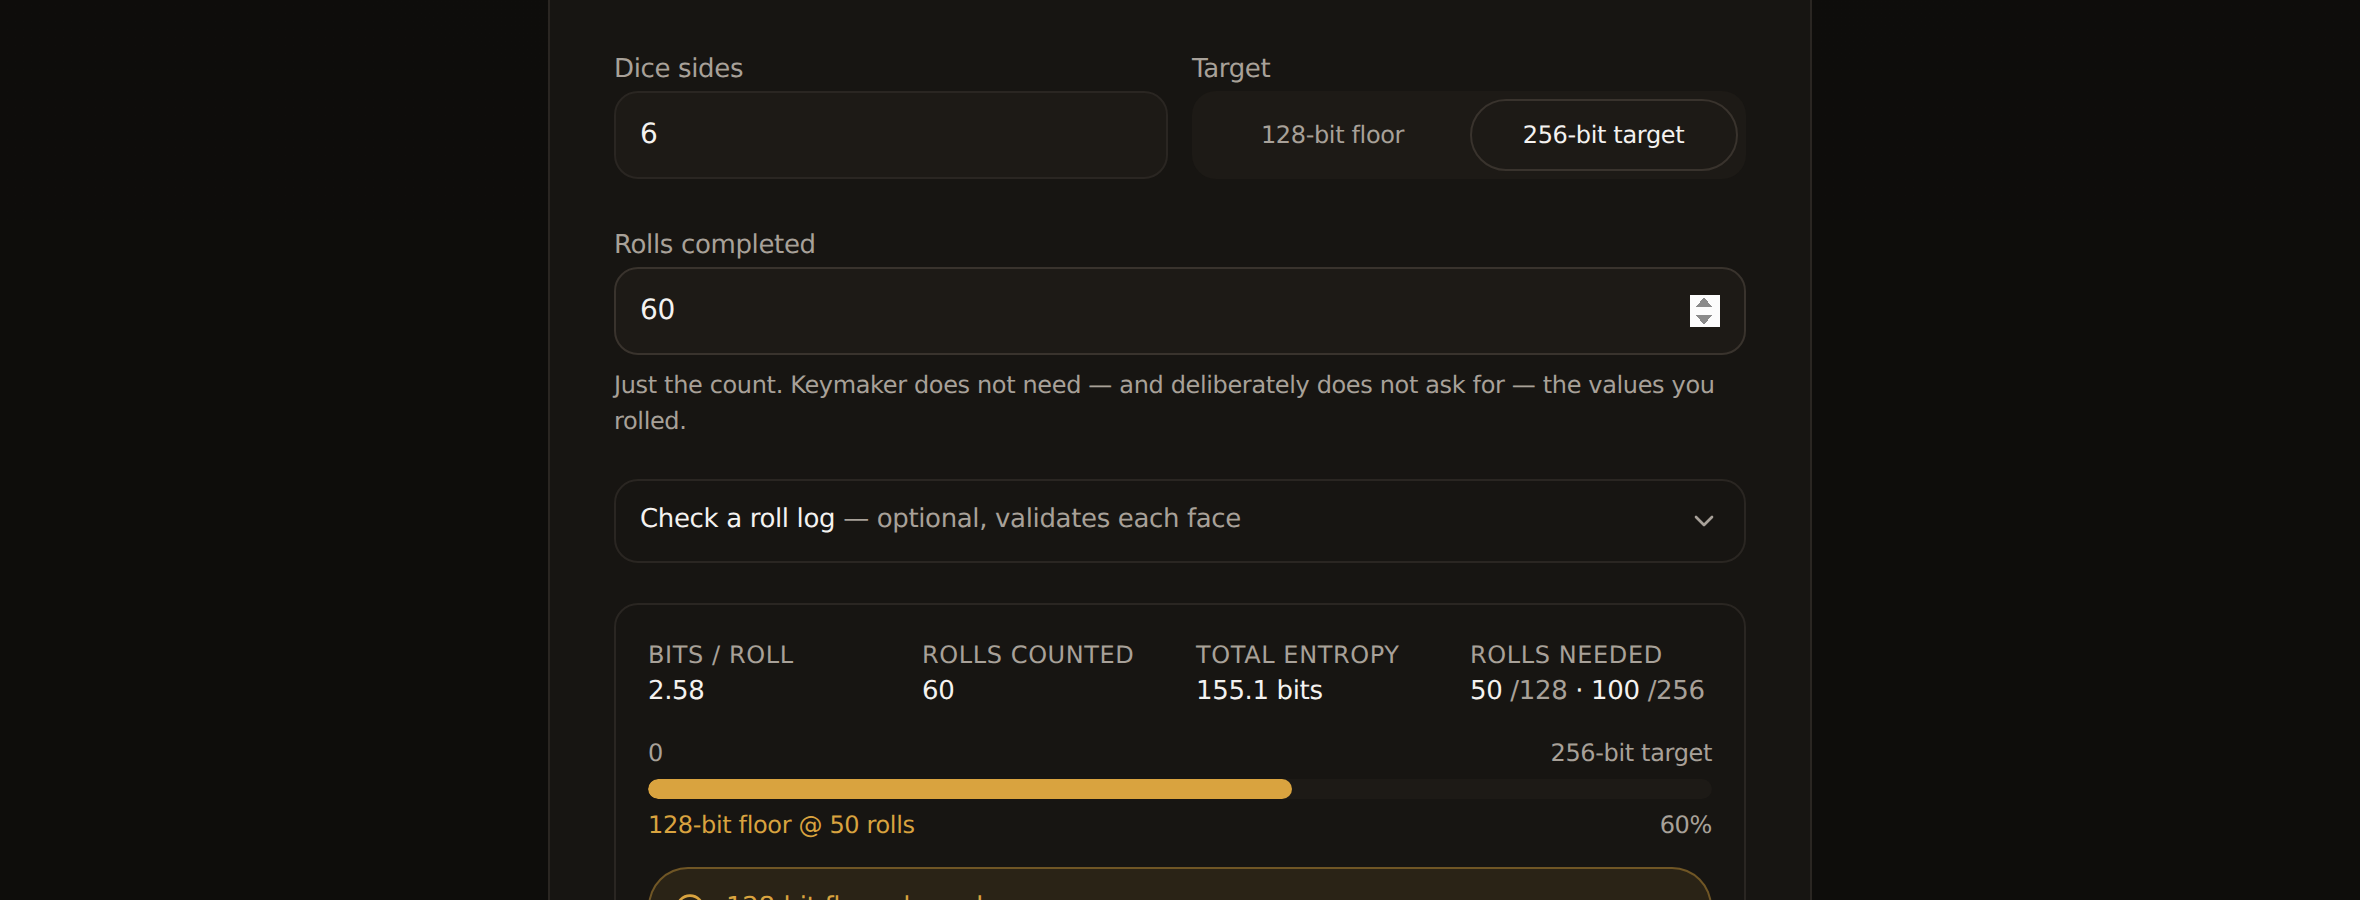
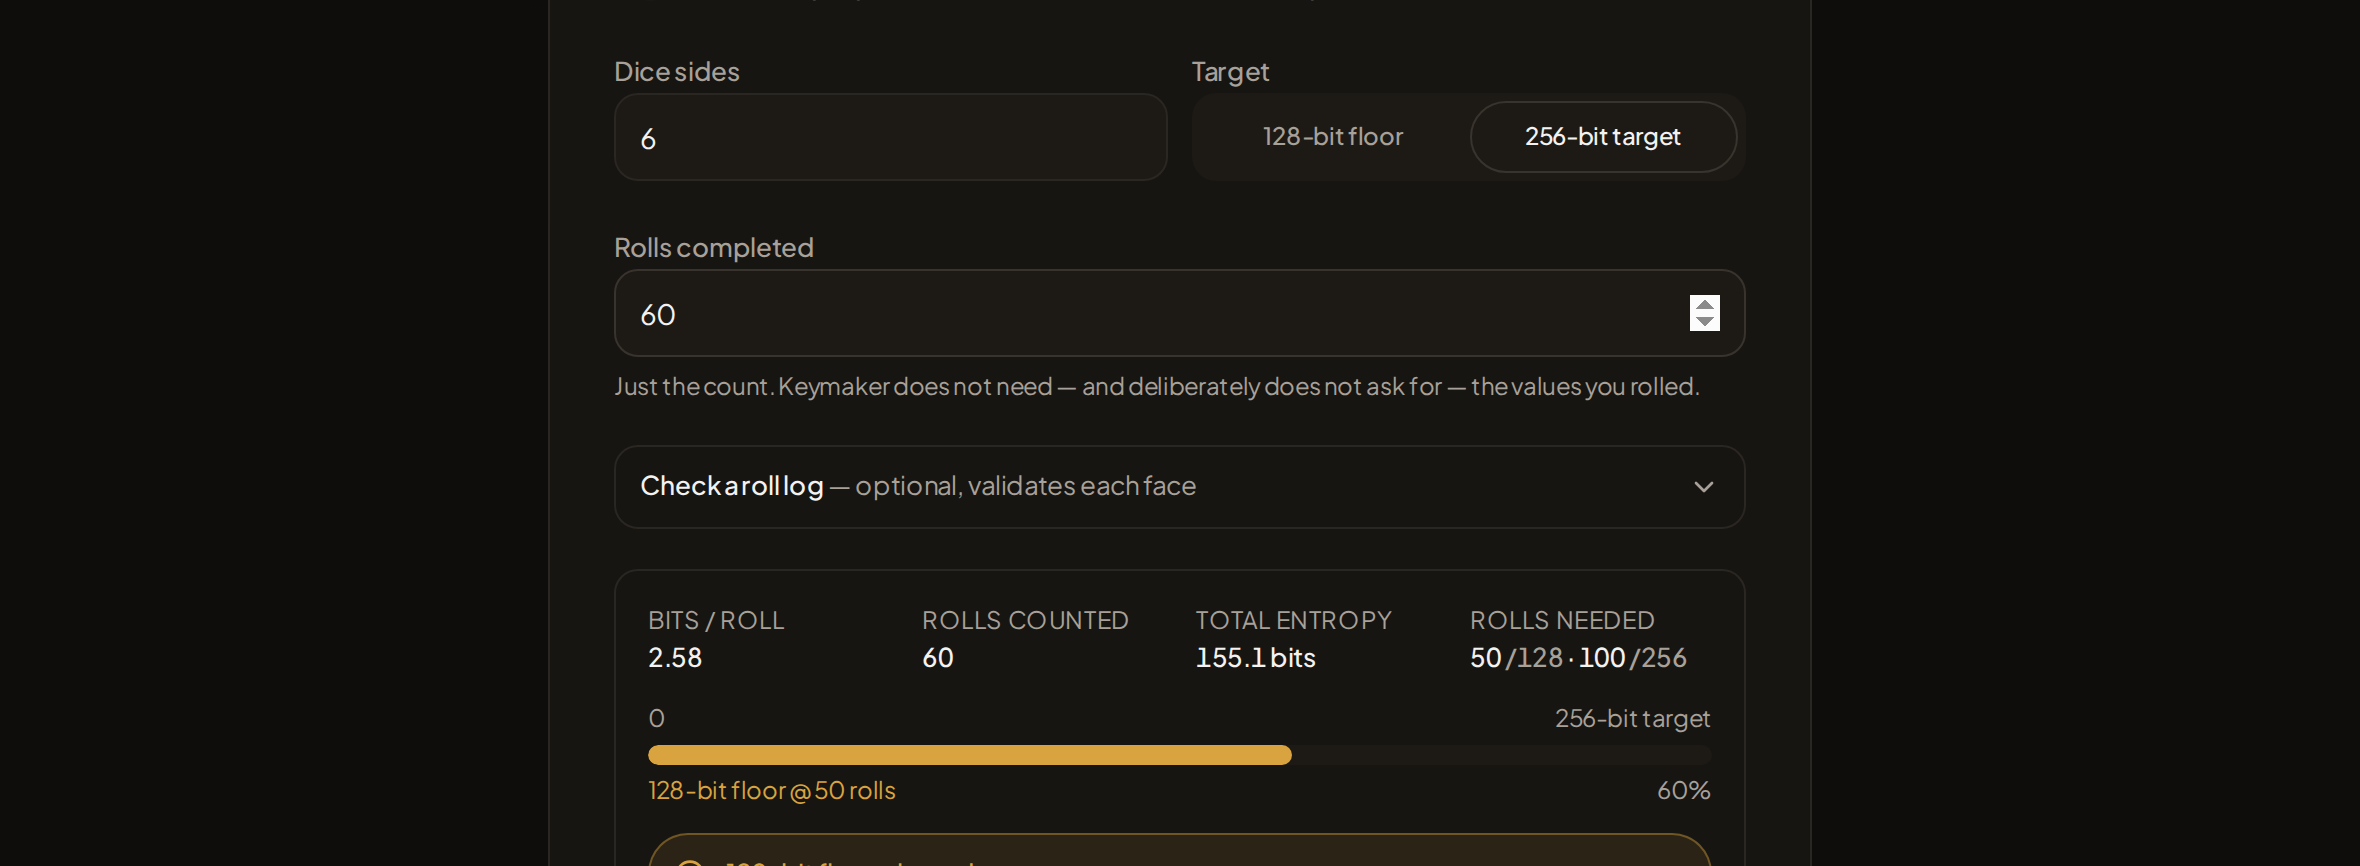
Draw the display face, instead of naming one we may not ship
Satoshi headed both text stacks and was never once rendered. The ITF Free
Font License §02 forbids distributing the binary through a "repository" or
"publicly accessible servers" and requires third parties to fetch their own
copy from Fontshare, so it could never live in this public repo — and with
no @font-face behind it the stack fell through to whatever system UI face
the reader had. The whispered 300 display this system is built on has never
been what anyone saw, which is most of why the interface reads as
characterless rather than quiet.

§01 does permit self-hosting on the deployed site. That does not rescue it:
a font that may not be in the source while it must be in the deployment
breaks the promise that the build is reproducible from what you can read,
and a build-time fetch would put an external server inside a build that
currently makes no network calls at all. The typeface is not worth the
verification story.

Plus Jakarta Sans instead — OFL-1.1, on npm, so it is in the lockfile,
content-hashed into the bundle, precached, and offline, exactly like
JetBrains Mono beside it. Its 200-800 axis covers the 300 display weight.

DESIGN-SYSTEM.md was edited first, as it requires of itself, and now states
the test any future face has to pass in order: the licence must permit
redistribution in a public repository, then it must self-host from the
lockfile, then it must carry a light weight. A face failing the first is not
a candidate however well it reads.
[…]

diff --git a/src/app/globals.css b/src/app/globals.css
@@ -1,4 +1,5 @@
 @import 'tailwindcss';
+@import '@fontsource-variable/plus-jakarta-sans/index.css';
 @import '@fontsource-variable/jetbrains-mono/index.css';
 
 @plugin 'tailwindcss-animate';
@@ -6,21 +7,29 @@
 @custom-variant dark (&:is(.dark *));
 
 /*
-  Satoshi Variable heads both text stacks but is not vendored yet: it is under
-  the ITF Free Font License, and the redistribution clause has to be read
-  before a binary lands in a public repository (docs/design/STATUS.md tracks
-  that). Until it does the stack falls through to the system UI face. No
-  @font-face block here deliberately — one pointing at a file we have not
-  committed is a 404 on every page load. The file plus one @font-face is the
-  whole drop-in.
+  Plus Jakarta Sans heads both text stacks, vendored from npm under OFL-1.1 and
+  therefore in the lockfile, precached, and available offline — like JetBrains
+  Mono beside it.
+
+  It replaces Satoshi, which headed these stacks and was never once drawn. The
+  ITF Free Font License forbids redistributing the binary through a repository
+  or a publicly accessible server, so it could not be committed here; the stack
+  fell through to whatever system UI face the reader happened to have, and the
+  whispered 300 display this system is built on was never what anyone saw.
+  docs/design/DESIGN-SYSTEM.md records the licence reasoning and the test any
+  replacement has to pass.
+
+  No @font-face block: the fontsource import above brings its own, pointing at
+  files the bundler content-hashes into _next/static, which is what makes them
+  safe for scripts/apply-build-id.mjs to precache.
 */
 @theme {
   --font-display:
-    'Satoshi Variable', 'Satoshi', ui-sans-serif, system-ui, -apple-system,
+    'Plus Jakarta Sans Variable', ui-sans-serif, system-ui, -apple-system,
     BlinkMacSystemFont, Segoe UI, Roboto, Helvetica Neue, Arial, sans-serif;
 
   --font-body:
-    'Satoshi Variable', 'Satoshi', ui-sans-serif, system-ui, -apple-system,
+    'Plus Jakarta Sans Variable', ui-sans-serif, system-ui, -apple-system,
     BlinkMacSystemFont, Segoe UI, Roboto, Helvetica Neue, Arial, sans-serif;
 
   --font-mono:

diff --git a/scripts/og-card-template.html b/scripts/og-card-template.html
@@ -10,6 +10,11 @@
   — the one place that document allows them.
 */
 @font-face {
+  font-family: 'Plus Jakarta Sans Variable';
+  src: url('../node_modules/@fontsource-variable/plus-jakarta-sans/files/plus-jakarta-sans-latin-wght-normal.woff2') format('woff2-variations');
+  font-weight: 200 800;
+}
+@font-face {
   font-family: 'JetBrains Mono Variable';
   src: url('../node_modules/@fontsource-variable/jetbrains-mono/files/jetbrains-mono-latin-wght-normal.woff2') format('woff2-variations');
   font-weight: 100 800;
@@ -19,10 +24,12 @@ body {
   width: 1200px; height: 630px; overflow: hidden; position: relative;
   background: #0E0D0B;
   color: #F5F3F1;
-  /* Satoshi once it is vendored; the system UI face until then. The same
-     stack globals.css declares, so the card and the app fall back together
-     rather than drifting apart. */
-  font-family: 'Satoshi Variable', 'Satoshi', ui-sans-serif, system-ui,
+  /* The same stack globals.css declares, so the card and the app cannot drift
+     apart. Loaded from node_modules by the @font-face above rather than left
+     to a fallback, because the card is rendered once and shipped as pixels —
+     a missing face here is baked into the artifact rather than recovered on
+     the next page load. */
+  font-family: 'Plus Jakarta Sans Variable', ui-sans-serif, system-ui,
     -apple-system, 'Segoe UI', Roboto, 'Helvetica Neue', Arial, sans-serif;
 }
 

diff --git a/docs/design/STATUS.md b/docs/design/STATUS.md
@@ -11,13 +11,12 @@ the binding tokens. This file holds the choices and the loose ends.
   (site: elevenlabs.io). The earlier Linear direction (PR #116) is
   superseded visually; its workbench layout, container inspector, fonts
   infrastructure, and test additions carry forward unchanged.
-- **Type**: Satoshi Variable (UI + display) and JetBrains Mono (data), both
-  from Fontshare. JetBrains Mono is OFL and also ships on npm
-  (`@fontsource-variable/jetbrains-mono`). Satoshi is ITF Free Font License —
-  free for commercial use; **verify the FFL's redistribution clause before
-  committing the font binaries to this public repository** (self-hosting on
-  the deployed site is fine either way). Download:
-  `https://api.fontshare.com/v2/fonts/download/satoshi`
+- **Type**: Plus Jakarta Sans Variable (UI + display) and JetBrains Mono
+  (data), both OFL-1.1 and both vendored from npm — in the lockfile, content
+  hashed into the bundle, precached for offline, and legal to redistribute in
+  a public repository. That last clause is the requirement, not a bonus: it is
+  what Satoshi failed. See "Loose ends" for the licence reasoning, and
+  `DESIGN-SYSTEM.md § Type` for the test any future face has to pass.
 - **Hero background**: "Deep Field" — sparse blue/ember bokeh drifting in a
   diagonal band over warm charcoal. **Shipped** as
   `public/hero-deep-field.webp` (1400×781, 7.5 KB).
@@ -104,14 +103,18 @@ the 12px floor, AA contrast, and the container-inspector spec are part of
 
 ## Loose ends
 
-- **Satoshi is still not vendored.** It heads both text stacks in
-  `globals.css` and falls through to the system UI face until the binary
-  lands, so the display weight is approximated rather than drawn: the
-  whispered 300 is the single most visible thing still missing. Needs
-  fontshare.com / api.fontshare.com reachable, *and* the ITF FFL
-  redistribution clause read before a binary goes into a public repository.
-  Download: `https://api.fontshare.com/v2/fonts/download/satoshi`. The drop-in
-  is one file in `public/` plus one `@font-face` — `globals.css` says where.
+- **Satoshi is not being vendored, and the question is closed.** It headed both
+  text stacks and was never once drawn: the ITF Free Font License §02 forbids
+  distributing the binary through a "repository" or "publicly accessible
+  servers" and requires third parties to obtain their own copy from Fontshare,
+  so it could not live in this public repo, and the stack fell through to
+  whatever system UI face the reader had. §01 does permit self-hosting on the
+  deployed site — but a font that may not be in the source while it must be in
+  the deployment breaks the reproducible-build promise, and a build-time fetch
+  would put an external server inside a build that currently has no network at
+  all. Replaced with **Plus Jakarta Sans** (OFL-1.1, npm, in the lockfile,
+  precached). ITF invite exception requests under §09 if the face is ever
+  wanted badly enough to ask.
 - Grab reference screenshots (images.refero.design and elevenlabs.io) so the
   craft review can compare pixels, not just mechanisms. Still blocked in a
   sealed container; both hosts are refused at the proxy.

diff --git a/docs/design/DESIGN-SYSTEM.md b/docs/design/DESIGN-SYSTEM.md
@@ -110,7 +110,7 @@ dots may use the same values.
 
 ## Type
 
-- **Satoshi Variable** for everything textual.
+- **Plus Jakarta Sans Variable** for everything textual.
   - Display: weight **300**, sizes 36/44/56px, tracking −0.02em,
     line-height ≤ 1.1. A display headline at ≥600 weight is a defect.
   - UI and body: 400 and 500 only, 13–16px.
@@ -121,6 +121,28 @@ dots may use the same values.
   defect (emphasis uses `ink`).
 - Floors from the browser suite override everything: 12px minimum
   rendered size, WCAG AA contrast, visible focus.
+
+This said **Satoshi Variable** until the licence was read. Satoshi is under the
+ITF Free Font License, whose §02 forbids distributing the font "through
+another font website, font library, marketplace, repository, download service"
+or via "publicly accessible servers", and requires any third party to obtain
+their own copy from Fontshare. This repository is public, so the binary can
+never live in it. Self-hosting on the deployed site is permitted (§01) — but a
+font that may not be in the source while it must be in the deployment breaks
+the promise that the build is reproducible from what you can read, and that
+promise is worth more than a typeface.
+
+So the display face was never actually drawn: the stack fell through to
+whatever system UI face the reader had, which is why the interface read as
+characterless rather than quiet. Plus Jakarta Sans is OFL-1.1, ships on npm as
+`@fontsource-variable/plus-jakarta-sans`, and is therefore vendored,
+precached, and offline like JetBrains Mono. Its 200–800 axis covers the 300
+display weight this system is built on.
+
+Any future replacement is subject to the same test, in this order: the licence
+must permit redistribution in a public repository, then it must self-host from
+the lockfile, then it must carry a light weight. A face that fails the first
+is not a candidate however well it reads.
 
 ## Imagery
 

diff --git a/CHANGELOG.md b/CHANGELOG.md
@@ -28,9 +28,12 @@ authority for that; this is the record of what changed.
   difference rather than blur or shadow. There are no drop shadows anywhere,
   and inside a card exactly two levels: a resting container has no fill and is
   drawn by its hairline, a field or a selected option carries the inset tone.
-  Type is Satoshi for text and JetBrains Mono (self-hosted, lockfile-pinned,
-  precached for offline) on every data surface — hex bytes, armor, share
-  strings, KDF parameters. The hero carries a generated bokeh plate at 40%
+  Type is Plus Jakarta Sans for text and JetBrains Mono on every data surface —
+  hex bytes, armor, share strings, KDF parameters — both OFL, self-hosted,
+  lockfile-pinned and precached for offline. (v2.1.0 itself shipped with
+  Satoshi at the head of the text stack and no binary behind it, so its display
+  weight fell through to the system UI face; the licence forbids vendoring it
+  and the replacement landed after that tag.) The hero carries a generated bokeh plate at 40%
   behind a canvas scrim, dissolving to flat canvas before any form.
 
   **The accent colour is gone rather than restyled.** The primary action is

diff --git a/docs/design/BAR.md b/docs/design/BAR.md
@@ -53,8 +53,11 @@ Every mechanism below is checkable by looking at a rendered screen.
 
 ## Our concrete deviations from the reference (deliberate, not drift)
 
-- Waldenburg → **Satoshi** (display 300, UI 400/500); Inter's role is
-  absorbed by Satoshi. Geist Mono's role → **JetBrains Mono**.
+- Waldenburg → **Plus Jakarta Sans** (display 300, UI 400/500); Inter's role
+  is absorbed by it. Geist Mono's role → **JetBrains Mono**. Both are OFL and
+  vendored; a face whose licence forbids it living in this public repository is
+  not a candidate, however well it reads — the reference's own Waldenburg is
+  licensed, and Satoshi was tried and failed exactly that test.
 - The reference is a marketing site; ours is an instrument. Density may be
   one notch higher in the workbench pane, but every mechanism above still
   binds — including the shadow ban and the accent quarantine.
